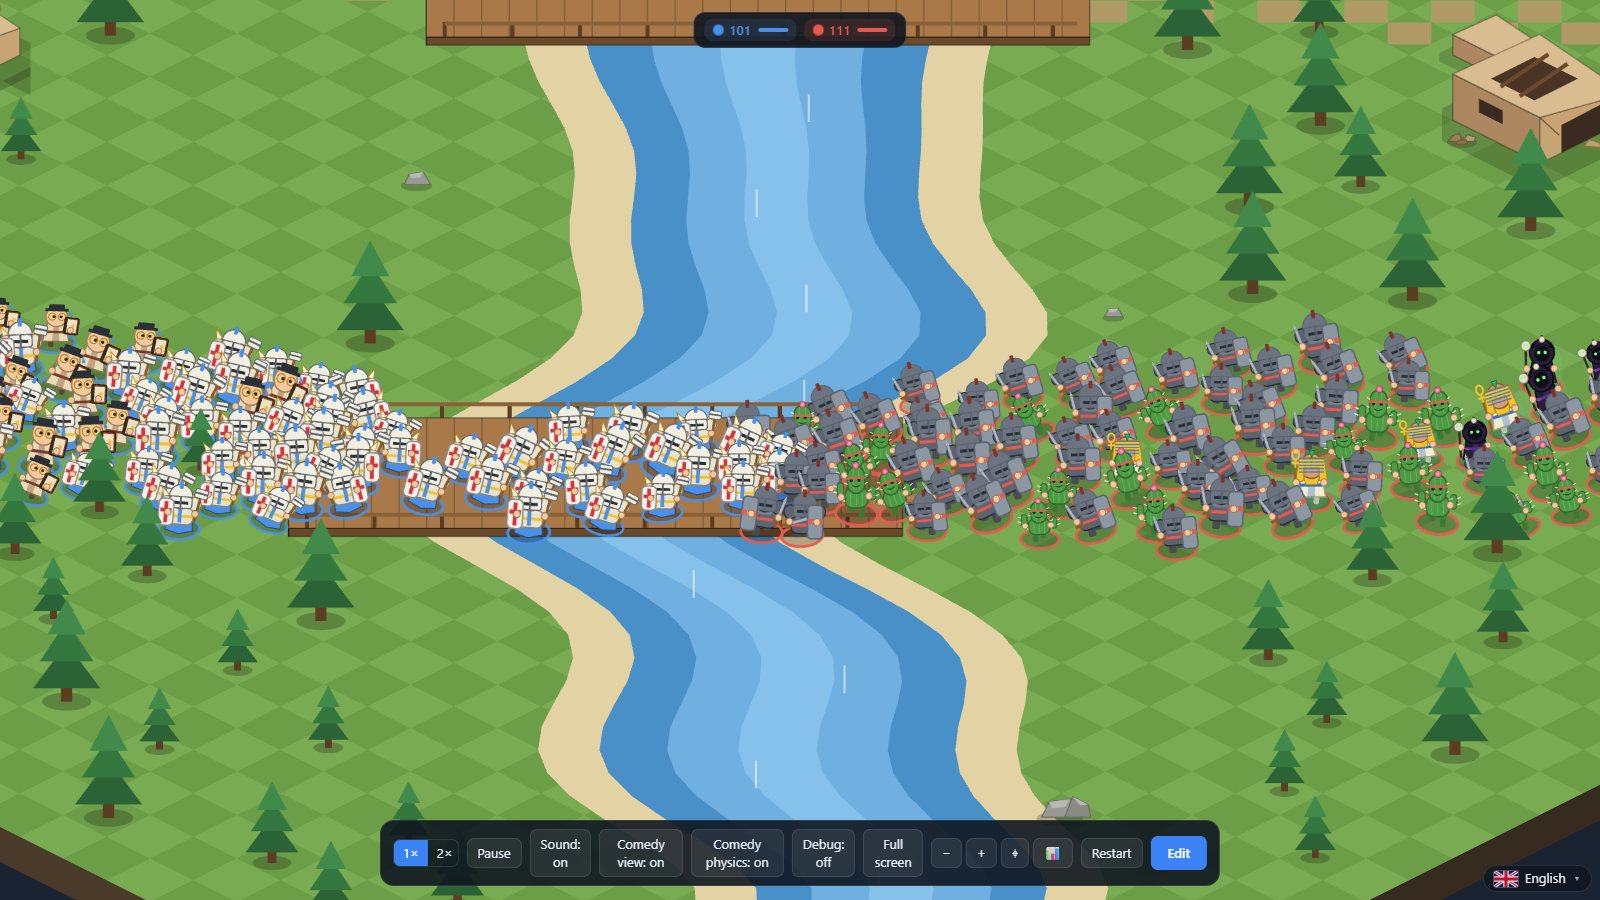
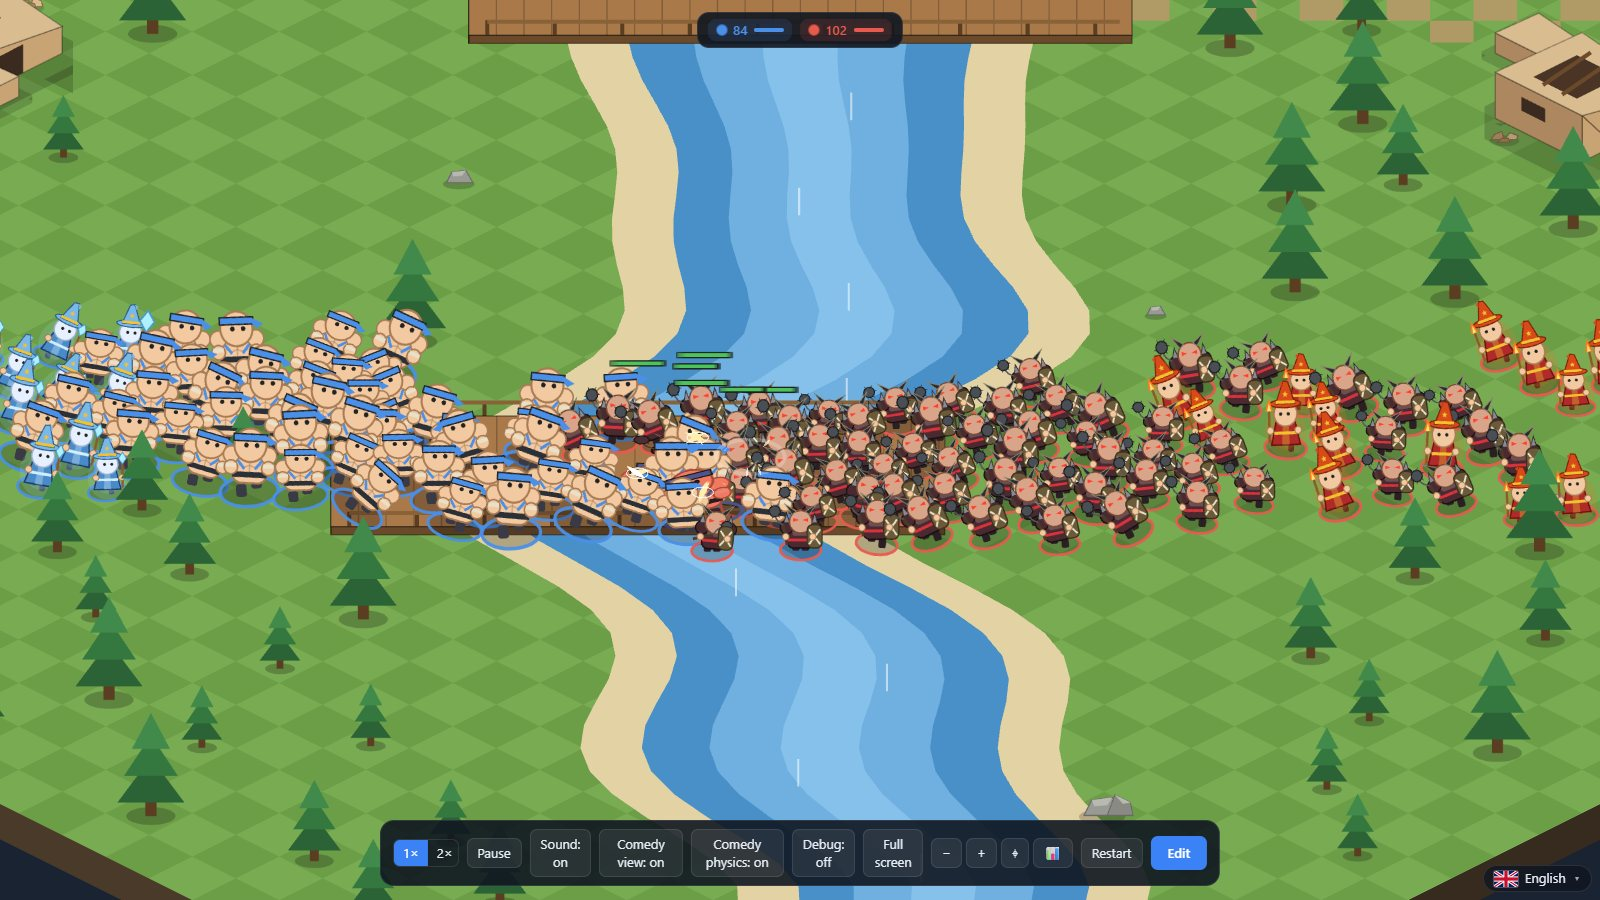
Release v1.7.0: counters (damage types x armor classes), strategic terrain (tall hills, slope slowdown, high ground), calibrated costs, headless balance harness, taller relief rendering, protocol 5

diff --git a/src/render/ground.ts b/src/render/ground.ts
@@ -56,8 +56,8 @@ export function buildGround(size: number, pal: BiomePalette = PALETTES.forest, t
       const steep = Math.hypot(gx, gy);
       // Light from the top-left: slopes rising in +x are lit, slopes rising in +y are shaded.
       const hAvg = (h00 + h10 + h01 + h11) / 4;
-      let k = bright ? 0.93 + 0.8 * gx - 0.9 * gy : 1 + 0.95 * gx - 0.75 * gy + 0.025 * hAvg;
-      k = Math.min(bright ? 1.02 : 1.3, Math.max(0.5, k));
+      let k = bright ? 0.93 + 1.1 * gx - 1.25 * gy : 1 + 0.95 * gx - 0.75 * gy + 0.025 * hAvg;
+      k = Math.min(bright ? 1.02 : 1.3, Math.max(bright ? 0.42 : 0.5, k));
       let col = shade((tx + ty) % 2 === 0 ? pal.grassA : pal.grassB, k);
       if (hAvg > 2) col = mix(col, shade(pal.cliff, k), Math.min(0.55, (hAvg - 2) * 0.28));
       if (steep > 0.85) col = mix(col, shade(pal.cliff, Math.min(1.2, Math.max(0.6, 1 + 0.25 * gx - 0.2 * gy))), Math.min(1, (steep - 0.85) / 0.9));
@@ -66,6 +66,8 @@ export function buildGround(size: number, pal: BiomePalette = PALETTES.forest, t
       const c = P(tx + 1, ty + 1);
       const d = P(tx, ty + 1);
       g.poly([a[0], a[1], b[0], b[1], c[0], c[1], d[0], d[1]]).fill(col);
+      // Steep faces get a dark outline so cliffs and ridges read clearly from a distance.
+      if (steep > 0.6) g.poly([a[0], a[1], b[0], b[1], c[0], c[1], d[0], d[1]]).stroke({ width: 1, color: 0x10161f, alpha: Math.min(0.4, (steep - 0.6) * 0.5) });
     }
   }
   return g;

diff --git a/src/net/protocol.ts b/src/net/protocol.ts
@@ -3,7 +3,7 @@ import type { MapSpec } from '../sim/mapSpec';
 import type { Rarity } from '../sim/data/troops';
 
 /** Protocol version: a client with a different version cannot join the lobby. */
-export const PROTOCOL = 4;
+export const PROTOCOL = 5;
 export const MAX_PLAYERS = 6;
 export const NAME_MAX = 16;
 export const CHAT_MAX = 200;

diff --git a/src/sim/terrain.ts b/src/sim/terrain.ts
@@ -9,7 +9,7 @@ export const T_BLOCKED = 3;
 export const T_PATH = 4;
 
 /** On-screen height of one elevation step (pixels). */
-export const LEVEL_PX = 22;
+export const LEVEL_PX = 26;
 export const MAX_LEVEL_H = 8;
 /** Tile height units: 16 units per step; a neighbor difference >= CLIFF_UNITS makes a cliff. */
 export const H_UNITS = 16;

diff --git a/README.md b/README.md
@@ -13,14 +13,14 @@ support for phones and tablets, 49 units, random maps and a bilingual UI (Englis
 
 <!-- screenshots:start (generated by `npm run screenshots`) -->
 <p align="center">
-  <img src="docs/screenshots/battle.jpg" alt="v1.6.0 — Crowded battle" />
+  <img src="docs/screenshots/battle.jpg" alt="v1.7.0 — Crowded battle" />
 </p>
 
 <table>
-  <tr><td align="center"><img src="docs/screenshots/comedy.jpg" alt="v1.6.0 — Comedy physics" width="460" /><br /><sub>Comedy physics</sub></td><td align="center"><img src="docs/screenshots/maps.jpg" alt="v1.6.0 — Map gallery" width="460" /><br /><sub>Map gallery</sub></td></tr>
-  <tr><td align="center"><img src="docs/screenshots/units.jpg" alt="v1.6.0 — Unit gallery with attack previews" width="460" /><br /><sub>Unit gallery with attack previews</sub></td><td align="center"><img src="docs/screenshots/studio.jpg" alt="v1.6.0 — Army studio" width="460" /><br /><sub>Army studio</sub></td></tr>
-  <tr><td align="center"><img src="docs/screenshots/lobby.jpg" alt="v1.6.0 — Online lobby" width="460" /><br /><sub>Online lobby</sub></td><td align="center"><img src="docs/screenshots/placement.jpg" alt="v1.6.0 — Online placement" width="460" /><br /><sub>Online placement</sub></td></tr>
-  <tr><td colspan="2" align="center"><img src="docs/screenshots/mobile-studio.jpg" alt="v1.6.0 — Mobile bottom sheet" width="200" /> <img src="docs/screenshots/mobile-battle.jpg" alt="v1.6.0 — Mobile battle HUD" width="200" /><br /><sub>Mobile: bottom sheet and battle HUD</sub></td></tr>
+  <tr><td align="center"><img src="docs/screenshots/comedy.jpg" alt="v1.7.0 — Comedy physics" width="460" /><br /><sub>Comedy physics</sub></td><td align="center"><img src="docs/screenshots/maps.jpg" alt="v1.7.0 — Map gallery" width="460" /><br /><sub>Map gallery</sub></td></tr>
+  <tr><td align="center"><img src="docs/screenshots/units.jpg" alt="v1.7.0 — Unit gallery with attack previews" width="460" /><br /><sub>Unit gallery with attack previews</sub></td><td align="center"><img src="docs/screenshots/studio.jpg" alt="v1.7.0 — Army studio" width="460" /><br /><sub>Army studio</sub></td></tr>
+  <tr><td align="center"><img src="docs/screenshots/lobby.jpg" alt="v1.7.0 — Online lobby" width="460" /><br /><sub>Online lobby</sub></td><td align="center"><img src="docs/screenshots/placement.jpg" alt="v1.7.0 — Online placement" width="460" /><br /><sub>Online placement</sub></td></tr>
+  <tr><td colspan="2" align="center"><img src="docs/screenshots/mobile-studio.jpg" alt="v1.7.0 — Mobile bottom sheet" width="200" /> <img src="docs/screenshots/mobile-battle.jpg" alt="v1.7.0 — Mobile battle HUD" width="200" /><br /><sub>Mobile: bottom sheet and battle HUD</sub></td></tr>
 </table>
 <!-- screenshots:end -->
 
@@ -56,6 +56,8 @@ This project is **source-available, but closed to commercial use**. The source c
 - **Comedy mode:** ragdoll deaths, cartoon sounds, physics launches.
 - Bilingual UI: English (default) and Türkçe, switchable from the flag dropdown at the bottom right.
 - Unit gallery with automatic looping attack previews on every unit card.
+- **Counters:** damage types (slash / pierce / blunt / magic) against armor classes (light / medium / heavy / spirit), area damage with falloff, crowd-control immunity; gold costs are calibrated by a headless, deterministic tournament (`npm run balance`).
+- **Terrain that matters:** hills and mountains up to 8 steps high; climbing slows units by steepness, high ground gives damage and range, ridges block direct fire.
 
 ## Play / Install
 
